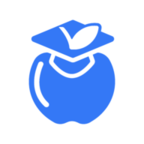
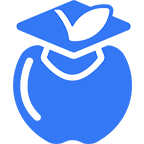
Fix bugs related to WaTutor self-management
Update gitignore to ignore Firebase debug log file. Update all icons.
Fix issue where fetching empty list of groups would set groups.list
state to false instead of an empty list. Display all subjects for
students and instructors in default org. Hide "Invite" column for
students and instructors in default org.

diff --git a/public/index.html b/public/index.html
@@ -19,14 +19,12 @@
 -->
 <!DOCTYPE html>
 <html lang="en">
-  <head>
-    <meta charset="utf-8" />
-    <meta
-      name="viewport"
-      content="width=device-width, initial-scale=1, shrink-to-fit=no"
-    />
-    <meta name="theme-color" content="#000000" />
-    <!--
+
+<head>
+  <meta charset="utf-8" />
+  <meta name="viewport" content="width=device-width, initial-scale=1, shrink-to-fit=no" />
+  <meta name="theme-color" content="#000000" />
+  <!--
         manifest.json provides metadata used when your web app is added to the
         homescreen on Android. See https://developers.google.com/web/fundamentals/engage-and-retain/web-app-manifest/
 
@@ -38,23 +36,23 @@
       href="%PUBLIC_URL%/apple-icon.png"
     />
         -->
-    <link rel="apple-touch-icon" sizes="57x57" href="%PUBLIC_URL%/apple-icon-57x57.png">
-    <link rel="apple-touch-icon" sizes="60x60" href="%PUBLIC_URL%/apple-icon-60x60.png">
-    <link rel="apple-touch-icon" sizes="72x72" href="%PUBLIC_URL%/apple-icon-72x72.png">
-    <link rel="apple-touch-icon" sizes="76x76" href="%PUBLIC_URL%/apple-icon-76x76.png">
-    <link rel="apple-touch-icon" sizes="114x114" href="%PUBLIC_URL%/apple-icon-114x114.png">
-    <link rel="apple-touch-icon" sizes="120x120" href="%PUBLIC_URL%/apple-icon-120x120.png">
-    <link rel="apple-touch-icon" sizes="144x144" href="%PUBLIC_URL%/apple-icon-144x144.png">
-    <link rel="apple-touch-icon" sizes="152x152" href="%PUBLIC_URL%/apple-icon-152x152.png">
-    <link rel="apple-touch-icon" sizes="180x180" href="%PUBLIC_URL%/apple-icon-180x180.png">
-    <link rel="icon" type="image/png" sizes="192x192"  href="%PUBLIC_URL%/android-icon-192x192.png">
-    <link rel="icon" type="image/png" sizes="32x32" href="%PUBLIC_URL%/favicon-32x32.png">
-    <link rel="icon" type="image/png" sizes="96x96" href="%PUBLIC_URL%/favicon-96x96.png">
-    <link rel="icon" type="image/png" sizes="16x16" href="%PUBLIC_URL%/favicon-16x16.png">
-    <link rel="shortcut icon" href="%PUBLIC_URL%/favicon.ico" />
-    <link rel="manifest" href="%PUBLIC_URL%/manifest.json" />
+  <link rel="apple-touch-icon" sizes="57x57" href="%PUBLIC_URL%/apple-icon-57x57.png">
+  <link rel="apple-touch-icon" sizes="60x60" href="%PUBLIC_URL%/apple-icon-60x60.png">
+  <link rel="apple-touch-icon" sizes="72x72" href="%PUBLIC_URL%/apple-icon-72x72.png">
+  <link rel="apple-touch-icon" sizes="76x76" href="%PUBLIC_URL%/apple-icon-76x76.png">
+  <link rel="apple-touch-icon" sizes="114x114" href="%PUBLIC_URL%/apple-icon-114x114.png">
+  <link rel="apple-touch-icon" sizes="120x120" href="%PUBLIC_URL%/apple-icon-120x120.png">
+  <link rel="apple-touch-icon" sizes="144x144" href="%PUBLIC_URL%/apple-icon-144x144.png">
+  <link rel="apple-touch-icon" sizes="152x152" href="%PUBLIC_URL%/apple-icon-152x152.png">
+  <link rel="apple-touch-icon" sizes="180x180" href="%PUBLIC_URL%/apple-icon-180x180.png">
+  <link rel="icon" type="image/png" sizes="192x192" href="%PUBLIC_URL%/android-icon-192x192.png">
+  <link rel="icon" type="image/png" sizes="32x32" href="%PUBLIC_URL%/favicon-32x32.png">
+  <link rel="icon" type="image/png" sizes="96x96" href="%PUBLIC_URL%/favicon-96x96.png">
+  <link rel="icon" type="image/png" sizes="16x16" href="%PUBLIC_URL%/favicon-16x16.png">
+  <link rel="shortcut icon" href="%PUBLIC_URL%/favicon.png" />
+  <link rel="manifest" href="%PUBLIC_URL%/manifest.json" />
 
-    <!--
+  <!--
         Notice the use of %PUBLIC_URL% in the tags above.
         It will be replaced with the URL of the `public` folder during the build.
         Only files inside the `public` folder can be referenced from the HTML.
@@ -63,22 +61,16 @@
         work correctly both with client-side routing and a non-root public URL.
         Learn how to configure a non-root public URL by running `npm run build`.
         -->
-    <title>WaTutor Console</title>
+  <title>WaTutor Console</title>
 
-    <link
-      href="//maxcdn.bootstrapcdn.com/font-awesome/latest/css/font-awesome.min.css"
-      rel="stylesheet"
-    />
-    <link
-      href="//fonts.googleapis.com/css?family=Roboto:400,700,300"
-      rel="stylesheet"
-      type="text/css"
-    />
-  </head>
-  <body>
-    <noscript> You need to enable JavaScript to run this app. </noscript>
-    <div id="root"></div>
-    <!--
+  <link href="//maxcdn.bootstrapcdn.com/font-awesome/latest/css/font-awesome.min.css" rel="stylesheet" />
+  <link href="//fonts.googleapis.com/css?family=Roboto:400,700,300" rel="stylesheet" type="text/css" />
+</head>
+
+<body>
+  <noscript> You need to enable JavaScript to run this app. </noscript>
+  <div id="root"></div>
+  <!--
         This HTML file is a template.
         If you open it directly in the browser, you will see an empty page.
 
@@ -88,5 +80,6 @@
         To begin the development, run `npm start` or `yarn start`.
         To create a production bundle, use `npm run build` or `yarn build`.
         -->
-  </body>
+</body>
+
 </html>

diff --git a/src/views/Tables/StudentList.js b/src/views/Tables/StudentList.js
@@ -76,7 +76,9 @@ function StudentList({
     componentClass: 'select',
     placeholder: 'select',
     multi: true,
-    options: properties && properties.map((item) => ({ value: item, label: item })),
+    options: properties && (orgState === 'watutor_default'
+      ? properties.map((item) => ({ value: item.split('_')[1], label: item.split('_')[1] }))
+      : properties.map((item) => ({ value: item, label: item }))),
   }];
 
   function handleEditSubmit(e) {
@@ -95,7 +97,10 @@ function StudentList({
       getData={getData}
       addData={addData}
       removeRow={removeData}
-      columnDefs={generateStudentMainAgGridColumns([], consumerProps)}
+      columnDefs={generateStudentMainAgGridColumns(
+        orgState === 'watutor_default' ? ['invite'] : [],
+        consumerProps,
+      )}
       rowData={rowData}
       addForm={form}
       editForm={editForm}
@@ -144,7 +149,7 @@ const mapStateToProps = ({ userReducer, studentsReducer }) => ({
   properties: userReducer.properties,
   orgReservedProps: userReducer.reservedLabels,
 });
-const mapDispatchToProps = (dispatch, componentProps) => ({
+const mapDispatchToProps = (dispatch) => ({
   getData: () => dispatch(getStudentsThunk()),
   addData: (inputData) => dispatch(inviteStudentsThunk(inputData)),
   removeData: (data) => dispatch(removeStudentThunk(data)),

diff --git a/src/views/Tables/ProviderList.js b/src/views/Tables/ProviderList.js
@@ -28,9 +28,17 @@ function ProviderList({
   const columnDefs = useMemo(() => {
     console.log('calc columnDefs', { isMD });
     if (isMD) // full screen, filter nothing
-      return generateProviderMainAgGridColumns([], providerProps);
+      return generateProviderMainAgGridColumns(
+        orgState === 'watutor_default' ? ['invite'] : [],
+        providerProps,
+      );
       // if mobile, filter less important things
-    return generateProviderMainAgGridColumns(['ratingCount', 'phone'], providerProps);
+    return generateProviderMainAgGridColumns(
+      orgState === 'watutor_default'
+        ? ['ratingCount', 'phone', 'invite']
+        : ['ratingCount', 'phone'],
+      providerProps,
+    );
   }, [isMD]);
 
   const form = [{

diff --git a/src/services/parsers/provider.parser.js b/src/services/parsers/provider.parser.js
@@ -114,7 +114,7 @@ function parsePropertiesFromItem(item, orgState) {
   const orgPrefix = `${orgState}_`;
   if (item.profile && item.profile.properties)
     return item.profile.properties
-      .filter((property) => property.includes(orgPrefix))
+      .filter((property) => (orgState === 'watutor_default' ? true : property.includes(orgPrefix)))
       .map((property) => property.replace(orgPrefix, ''));
   // else
   return null;

diff --git a/src/services/parsers/student.parser.js b/src/services/parsers/student.parser.js
@@ -88,7 +88,7 @@ function parsePropertiesFromItem(item, orgState) {
   const orgPrefix = `${orgState}_`;
   if (item.profile && item.profile.properties)
     return item.profile.properties
-      .filter((property) => property.includes(orgPrefix))
+      .filter((property) => (orgState === 'watutor_default' ? true : property.includes(orgPrefix)))
       .map((property) => property.replace(orgPrefix, ''));
   // else
   return null;

diff --git a/src/redux/ducks/group.duck.js b/src/redux/ducks/group.duck.js
@@ -125,7 +125,7 @@ export function getGroupsThunk() {
       const { groups } = groupsObj;
 
       // dispatch bullshit
-      dispatch(getGroupsSuccess(groups));
+      dispatch(getGroupsSuccess(groups || []));
     } catch (error) {
       console.error('getGroups thunk threw', error);
       dispatch(getGroupsFailure(error.message));

diff --git a/src/views/Tables/SessionList.js b/src/views/Tables/SessionList.js
@@ -123,7 +123,7 @@ function SessionList({
     label: 'Link URL',
     csvlabel: 'Link URLs ()',
     type: 'text',
-    placeholder: 'www.watutors.com',
+    placeholder: 'https://watutor.com',
     csvPlaceholder: 'freeform',
   }, {
     name: 'subject',
